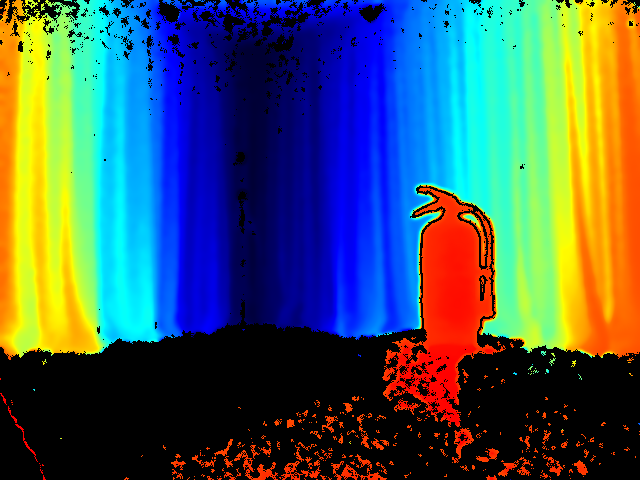
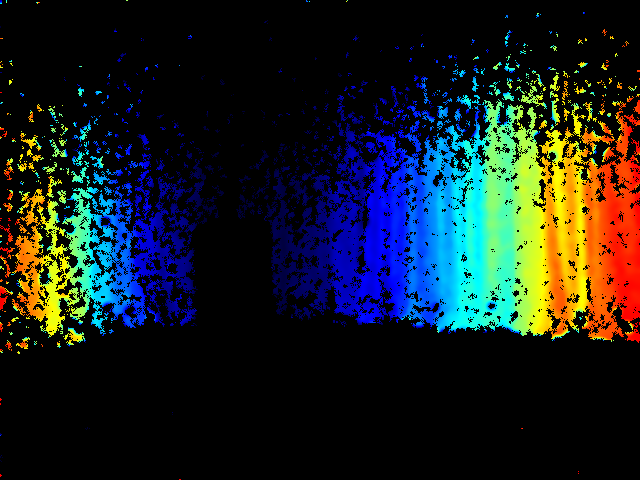
modified

diff --git a/data_generation/real_data/main.py b/data_generation/real_data/main.py
@@ -9,13 +9,13 @@ config["turtlebot_config"] = dict()
 ################################################################################
 # Important Parameters
 ################################################################################
-config["data_config"]["dst_folder"] = "d:\\sound_test_01"
-# config["turtlebot_config"]["initial_indices"] = [0, 0]
-config["turtlebot_config"]["initial_indices"] = [0]
+config["data_config"]["dst_folder"] = "d:\\moving_test_01"
+config["turtlebot_config"]["initial_indices"] = [0, 0]
+# config["turtlebot_config"]["initial_indices"] = [280]
 config["sensor_config"] = dict()
 config["sensor_config"]["use_laser"] = False
 config["sensor_config"]["use_rf"] = False
-config["sensor_config"]["use_sound"] = True
+config["sensor_config"]["use_sound"] = False
 ################################################################################
 # X: 0.6, -0.6
 # leftbottom: 0.6, -1.0, 0.0
@@ -24,8 +24,8 @@ config["sensor_config"]["use_sound"] = True
 # config["turtlebot_config"]["area_range"] = [[1.0, -1.0], [2.0, -2.0]]
 config["turtlebot_config"]["area_range"] = [[0.80, -0.80], [2.80, -2.40]]
 config["turtlebot_config"]["angle_range"] = [0.0, 180.0]
-config["turtlebot_config"]["spatial_step"] = 0.1 # default 0.1
-config["turtlebot_config"]["angle_step"] = 20.0 # max 180, default 20.0
+config["turtlebot_config"]["spatial_step"] = 0.15 # default 0.1
+config["turtlebot_config"]["angle_step"] = 180.0 # max 180, default 20.0
 config["turtlebot_config"]["min_distance"] = 0.35
 config["turtlebot_config"]["ports"] = ["11311", "11312"]
 config["turtlebot_config"]["master_ip"] = "192.168.50.192"

diff --git a/data_generation/real_data/depth/depth.py b/data_generation/real_data/depth/depth.py
@@ -59,6 +59,8 @@ class Depth():
         # Streaming loop
         try:
             # Get frameset of color and depthprint('4')
+            for x in range(5):
+                self.pipeline.wait_for_frames()
 
             frames = self.pipeline.wait_for_frames()
             # frames.get_depth_frame() is a 640x360 depth image
@@ -71,6 +73,7 @@ class Depth():
             if not depth_frame:
                 print("ERROR : NO FRAME")
                 return
+
             colorizer = rs.colorizer()
             depth_image = np.asanyarray(colorizer.colorize(depth_frame).get_data())
 
